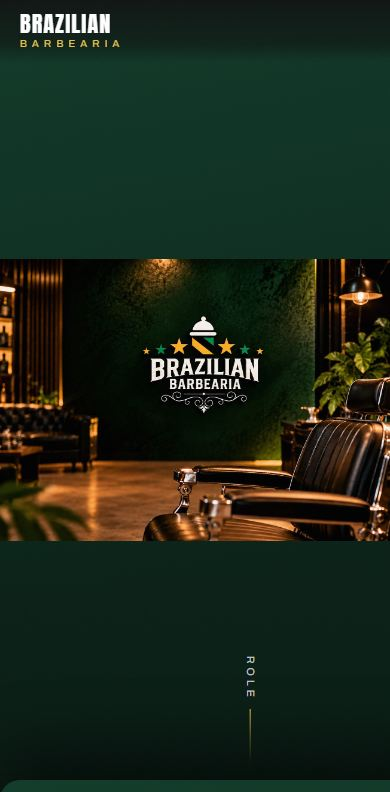
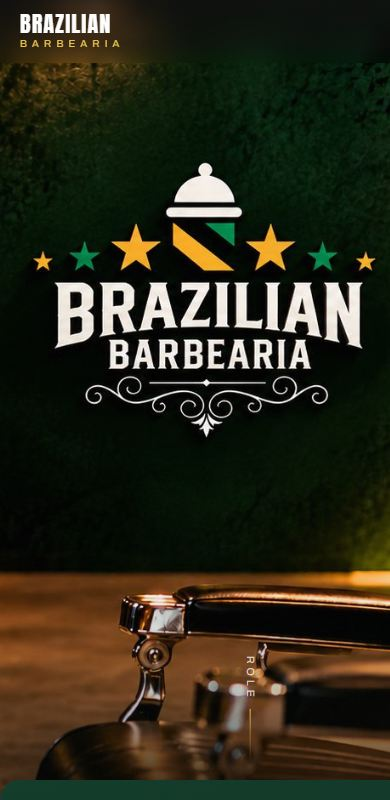
fix: hero mobile volta ao cover (como no desktop) com o letreiro centralizado
O contain na proporcao original nao agradou; a arte volta a preencher a
tela no retrato, com object-position 40.5% centralizando o nome.
Captura hero-mobile.jpg e README atualizados.

diff --git a/css/styles.css b/css/styles.css
@@ -267,17 +267,12 @@ body::after {
   object-position: 28% center;
 }
 
-/* Em telas estreitas (retrato) a arte aparece inteira, na proporção
-   original (sem o zoom do cover), centralizada na tela; o fundo verde dos
-   painéis preenche o espaço acima/abaixo. */
+/* Em telas estreitas (retrato) a arte preenche a tela como no desktop
+   (cover); o object-position centraliza o letreiro da arte na tela
+   ("BRAZILIAN" ocupa 30,4%–51,4% da largura da imagem; calibrado
+   visualmente). */
 @media (max-width: 760px) and (orientation: portrait) {
-  .hero__media {
-    background: linear-gradient(170deg, var(--green-deep), var(--green-dark) 70%);
-  }
-  .hero__media img {
-    object-fit: contain;
-    object-position: center;
-  }
+  .hero__media img { object-position: 40.5% center; }
 }
 /* véu leve: só um vinhete sutil para o indicador de scroll — a arte fica nítida */
 .hero__scrim {

diff --git a/README.md b/README.md
@@ -92,7 +92,7 @@ Quando o domínio oficial existir, atualize em 4 lugares:
 ## 7. Fotografias e vídeos
 
 - As imagens vivem em `img/`. **Não renomeie os arquivos existentes** sem atualizar os caminhos em `index.html` e `js/products.js`.
-- Hero usa `img/hero-bg.jpg` (JPEG otimizado gerado da arte oficial, com logotipo compacto). Em telas estreitas (retrato) a arte aparece **inteira e na proporção original** (`object-fit: contain`), centralizada, com o gradiente verde dos painéis preenchendo o espaço acima/abaixo; em paisagem e desktop a arte preenche a tela (`cover`). Sobre usa `img/carlos-retrato.png` (retrato recortado, fundo transparente); a galeria usa os pares `antes*/depois*` e `video trabalho.mp4`; a Localização exibe um mapa incorporado do Google Maps (sem chave de API, via `output=embed`).
+- Hero usa `img/hero-bg.jpg` (JPEG otimizado gerado da arte oficial, com logotipo compacto). A arte preenche a tela (`cover`) em todas as larguras, como no desktop; em telas estreitas (retrato) o `object-position: 40.5%` centraliza o letreiro da arte na tela (valor calibrado visualmente — "BRAZILIAN" ocupa 30,4%–51,4% da largura da imagem). Sobre usa `img/carlos-retrato.png` (retrato recortado, fundo transparente); a galeria usa os pares `antes*/depois*` e `video trabalho.mp4`; a Localização exibe um mapa incorporado do Google Maps (sem chave de API, via `output=embed`).
 - Para trocar uma foto, substitua o arquivo mantendo o nome, ou atualize o `src` + atributos `width`/`height` correspondentes (eles evitam layout shift).
 - Vídeos: use MP4 curto, `preload="metadata"`, nunca autoplay com áudio.
 
